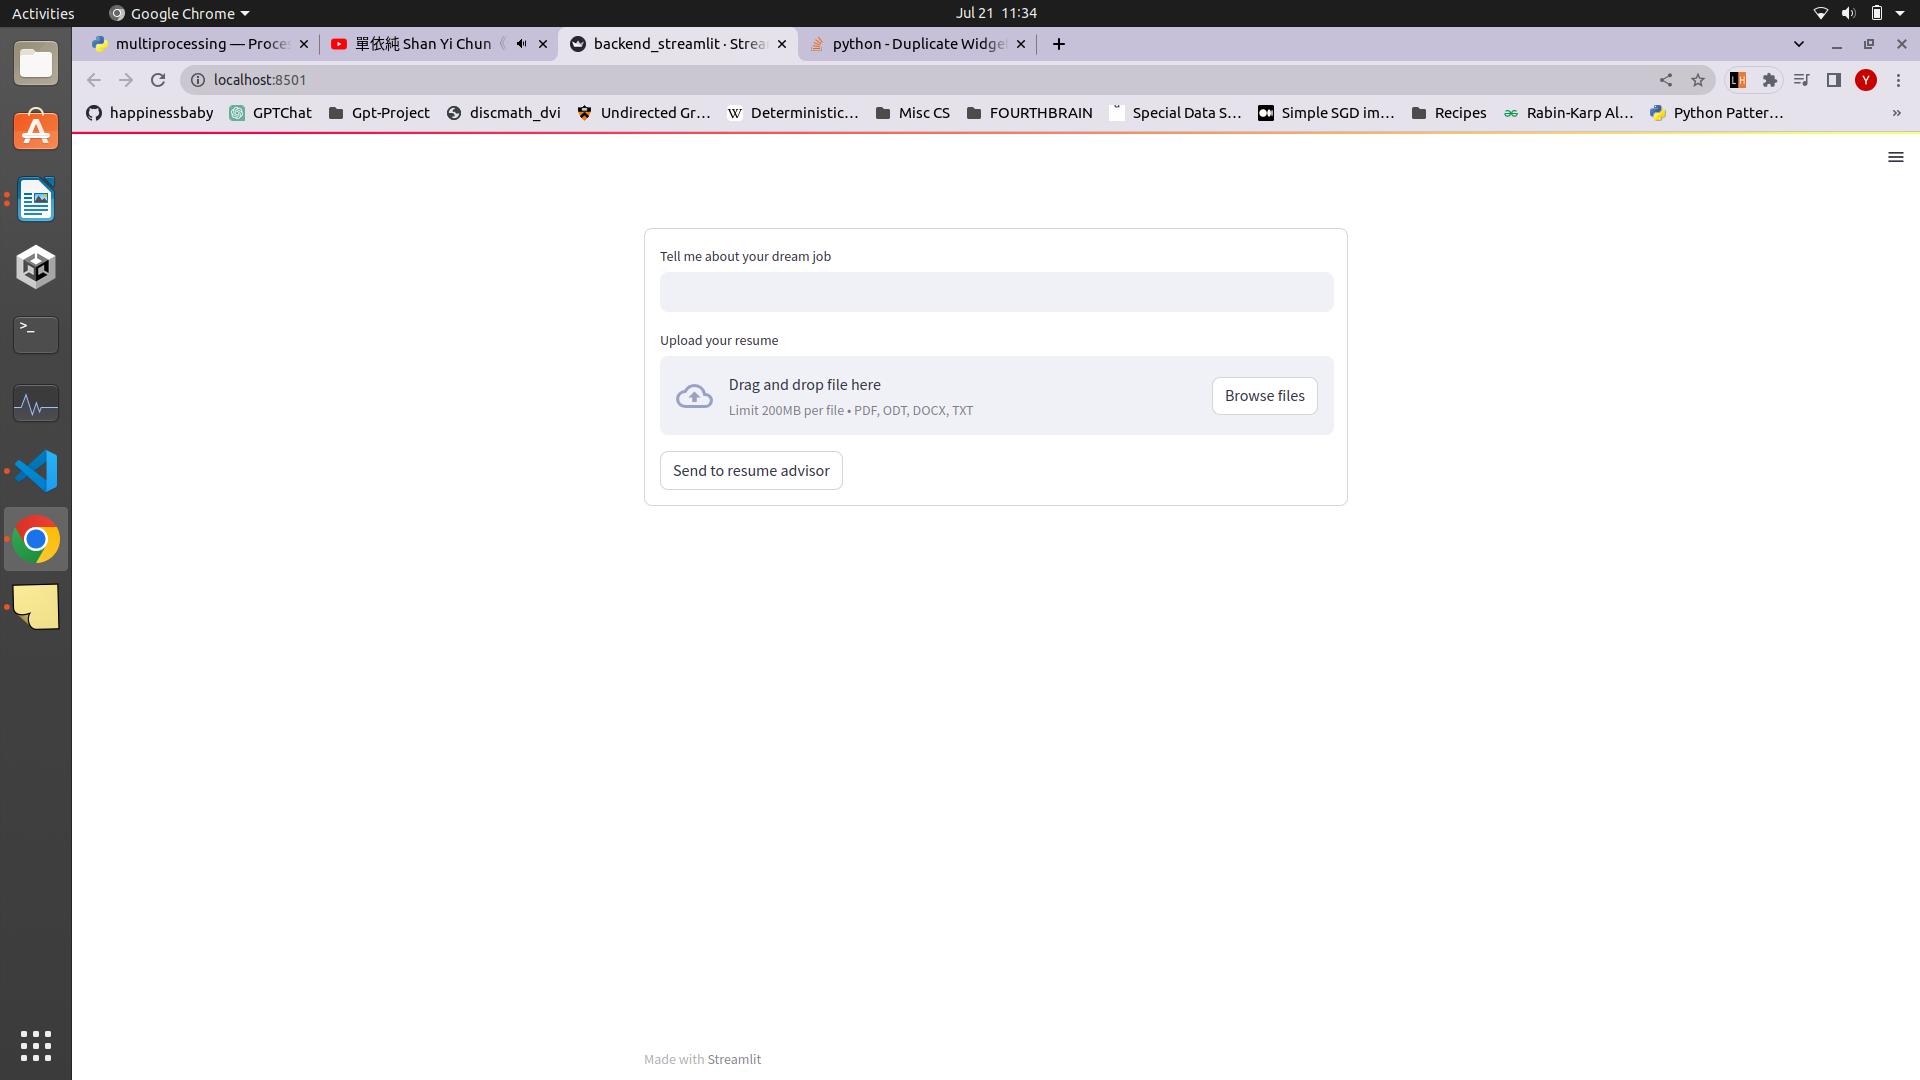
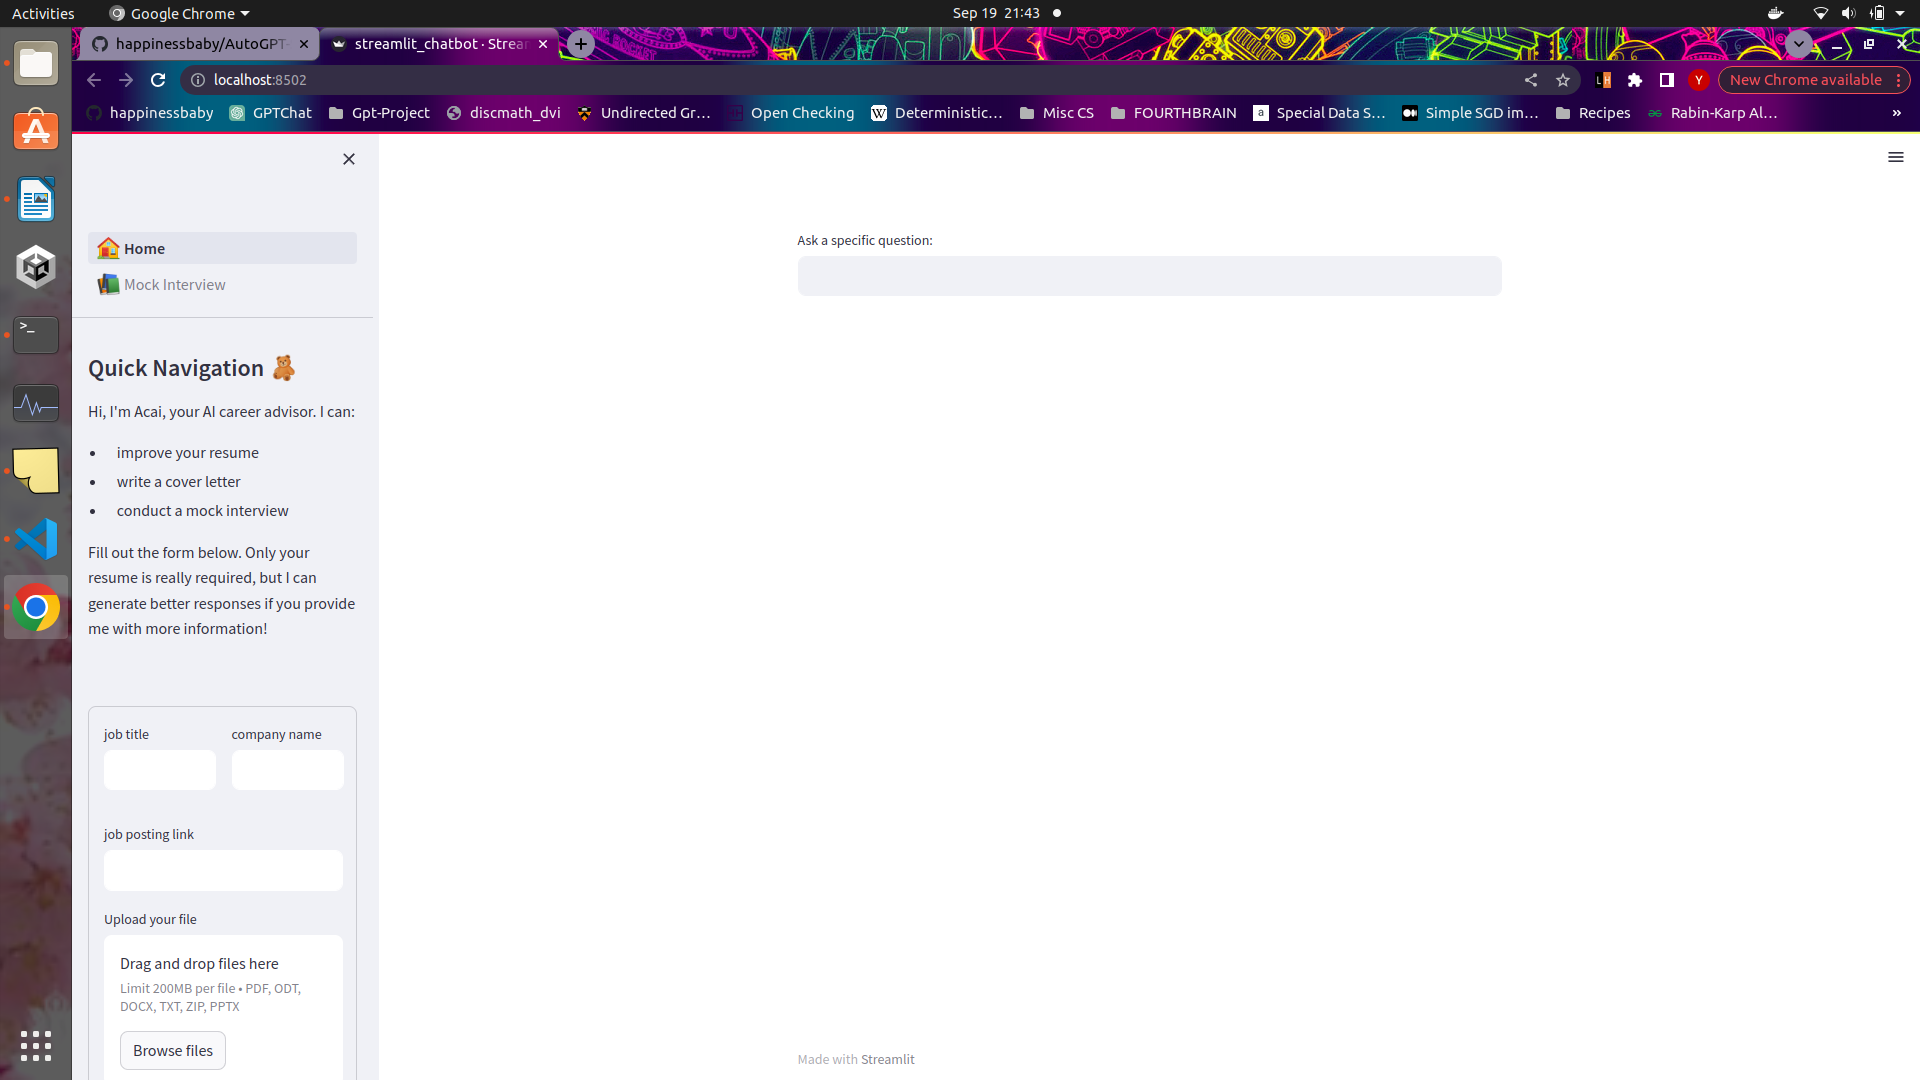
updated readme

diff --git a/README.md b/README.md
@@ -1,52 +1,33 @@
-# Creating a functional site using AutoGPT
 
-"AI is the new electricity" - Andrew NG
+# AI Powered Career Help Platform
 
-### setting up AutoGPT
-- If you followed the [setup page][https://docs.agpt.co/setup/] and ran into problems, I got a few troubleshooting tips
-  - When you download their latest release [https://github.com/Significant-Gravitas/Auto-GPT], note the python version required. Currently it's 3.10 or later. If your virtual environment has a python version that does not meet the requirement, you will run into multiple problems. So make sure to specify the right python version when you create your environment!
-  - If you enabled Redis as the backend, make sure you have Redisearch too. Use command "docker run -p 6379:6379 redislabs/redisearch:latest" to start Redisearch before running AutoGPT. If you run into Redis related errors, I suggest you kill all instances of Redis running on default port 6379 then restart Redisearch. If you're not able to kill the server, stop it using "/etc/init.d/redis-server stop"
-  - If you enabled Redis and you're asked to set up an authentication password for the Redis server, follow this [set up link][https://stackink.com/how-to-set-password-for-redis-server/]
-  - The very first time before activating your virtual environment, I suggest you run "pip install -r requirements.txt" first. Although AutoGPT should automatically run requirements.txt the very first time when it sees you don't have required packages installed, sometimes it doesn't, which means you'll have to manually pip install every package (not suggested!)
-
-### knowing AutoGPT's limitations
-- It is an AI assistance that needs human assistance. This could be the start of human-AI collaboration, which could be where future is going with AI. Imagine we each have a personal AI assistant that helps us run our lives.
- 
-
-### what I want it to do for me
-#### create a functional webpage that uses OpenAI's LLM models for content creation (this part I have mostly given up. I ended up coding everything without its help )
-#### extra: maintain the site and monitor the budget (still hopeful this can be achieved)
+#### An AI--powered career help platform in the chatbot form that helps users write cover letters, improve their resume, and practice mock interviews.
 
 
-# What this project will become
-
-### An AI Powered job hosting platform with AI-powered features such as a cover letter generator and a chatbot for helping people improve their resumes. The ultimate goal is creating a powerful AI powered job search engine.
-
-[Refer to document for more detail](./designs/concepts.odt)
 
 All features will be connected to a chatbot UI.
-![page](./designs/page.png)
+![page](./designs/page1.png)
+![page](./designs/page2.png)
 
-everything is still a work in progress
+
+everything is still a work in progress!
 
 
 
 #### Cover Letter Generator
 
-Where user uploads his/her resume along with the job position and company they’re applying to and they’ll be given a personalized cover letter. This uses some basic LangChain functionalities. 
+Where user uploads his/her resume along with the job position and company they’re applying to and they’ll be given a personalized cover letter.
 
 
 
+#### Resume Writer
 
-#### Resume Chat Bot
-
-A chat-bot that has been trained to expertly assess resume will provide feedback on how a user’s resume can be improved; some obvious flaws such as missing fields, misspellings, grammar can already be easily spotted by any pretrained llm. HOWEVER, some things that need more human expertise will need RLHF (not feasible, will try vector store embedding instead)
-    
+A chat-bot that has been trained to expertly assess resume will provide feedback on how a user’s resume can be improved;
 
 
-#### Job Search Engine
+#### Mock Interviewer
 
-A search engine powered by AI for matching people with job they want (welcome any collaboration on this)
+A voice bot AI that can conduct mock interviews (video bot in the future)
 
 
 
@@ -57,7 +38,7 @@ A search engine powered by AI for matching people with job they want (welcome an
 
 - with frontend
 ````
- streamlit run backend_streamlit.py
+ streamlit run streamlit_chatbot.py
 ````
 
 - Individual feature testing w/o frontend:
